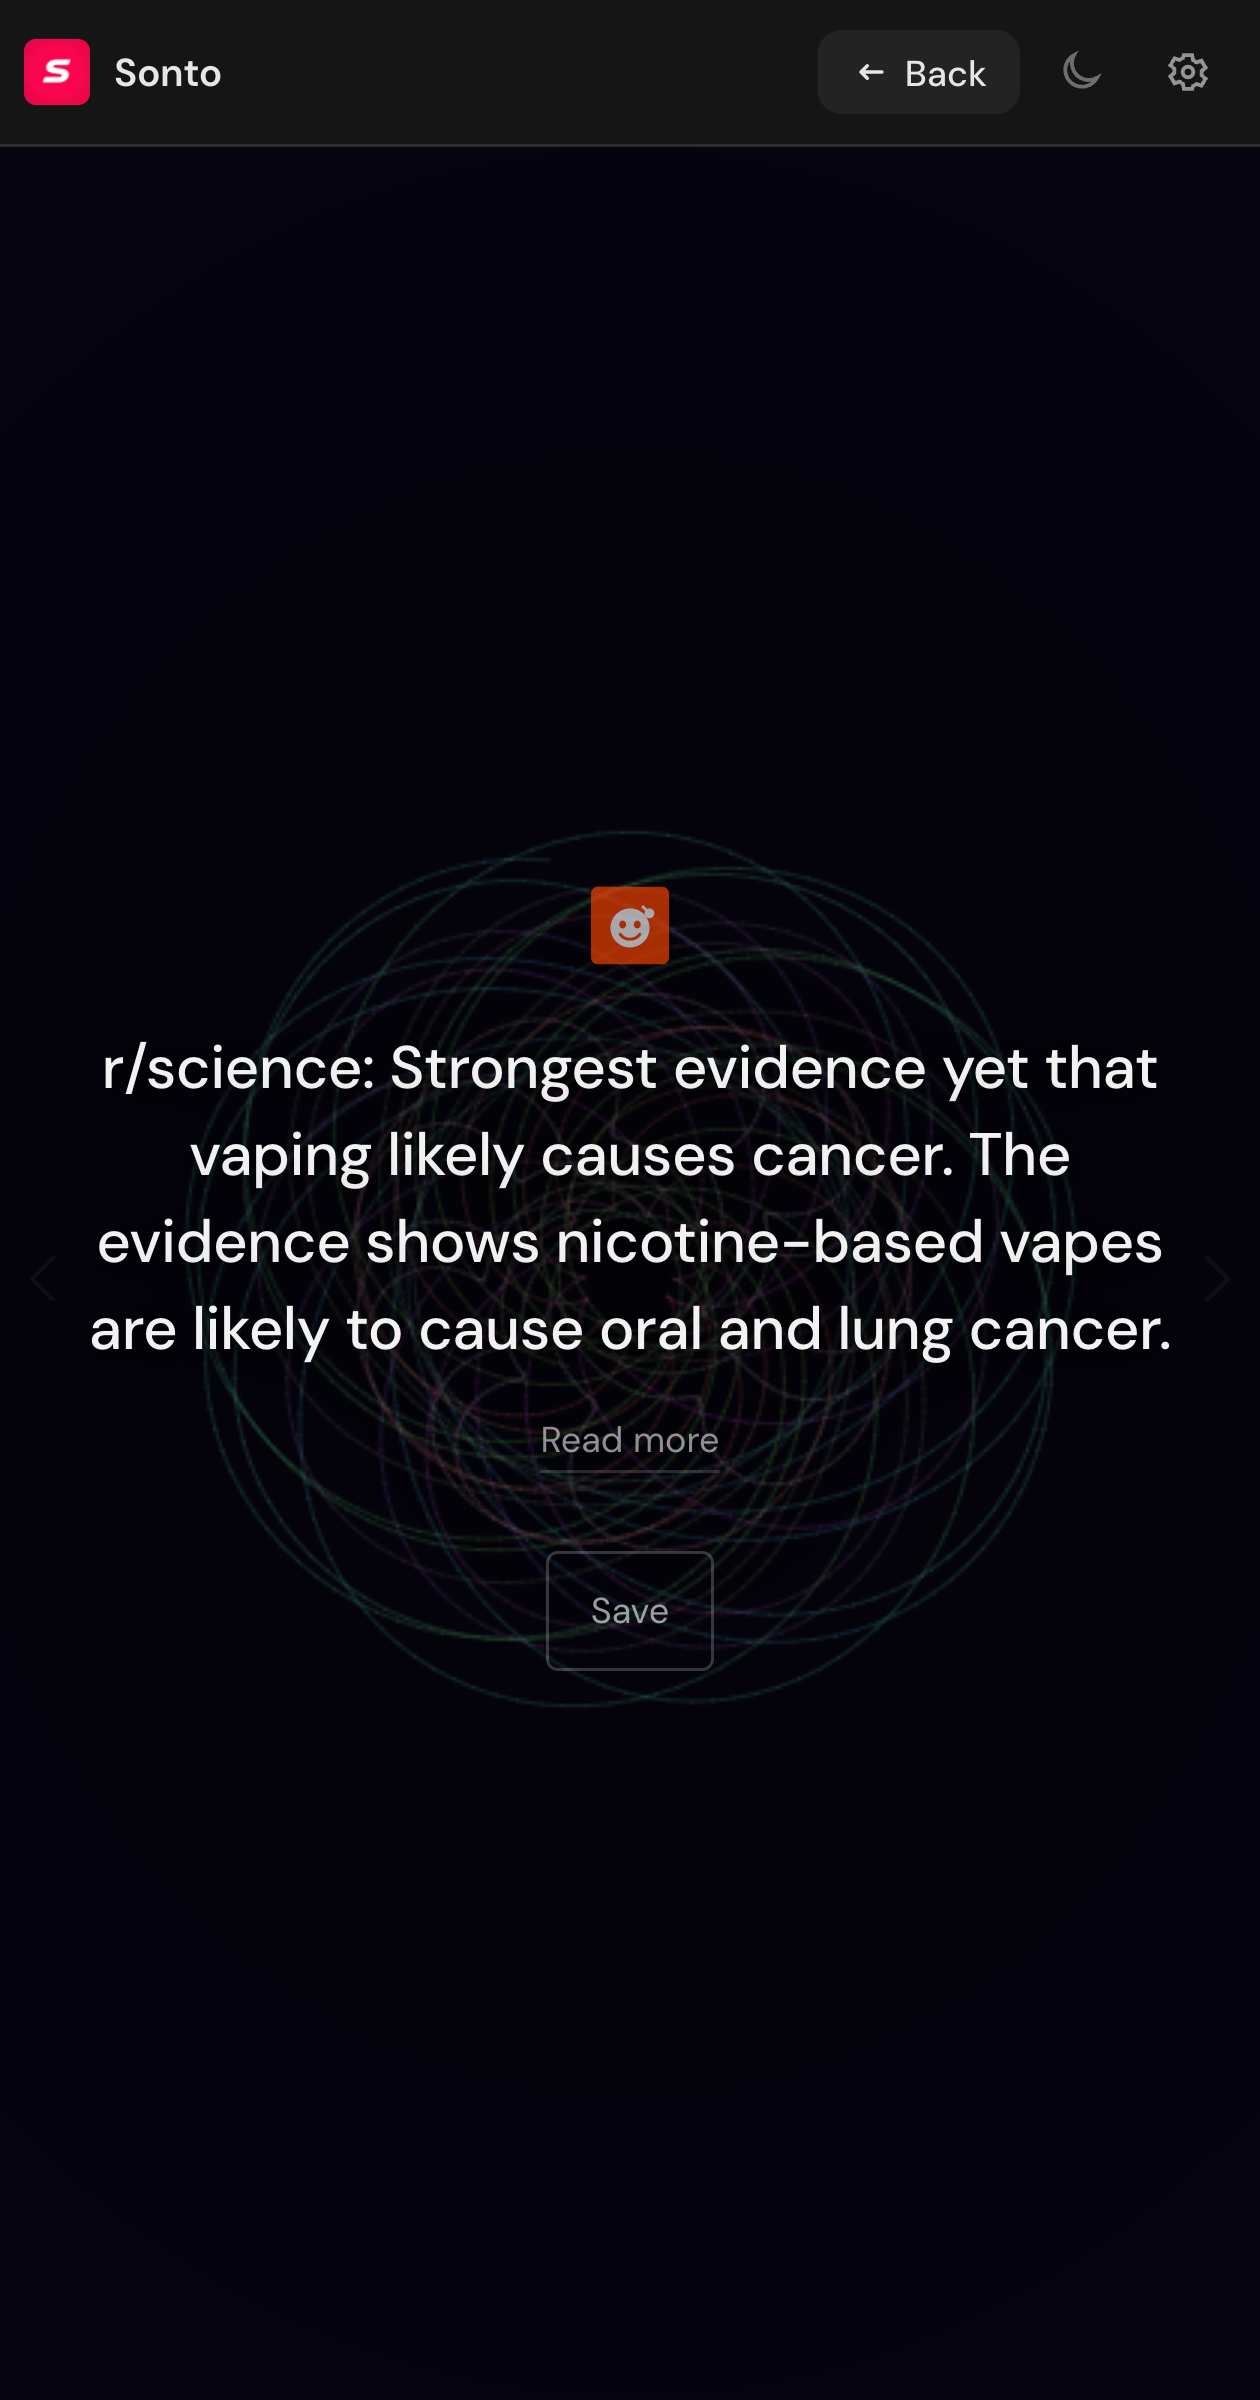
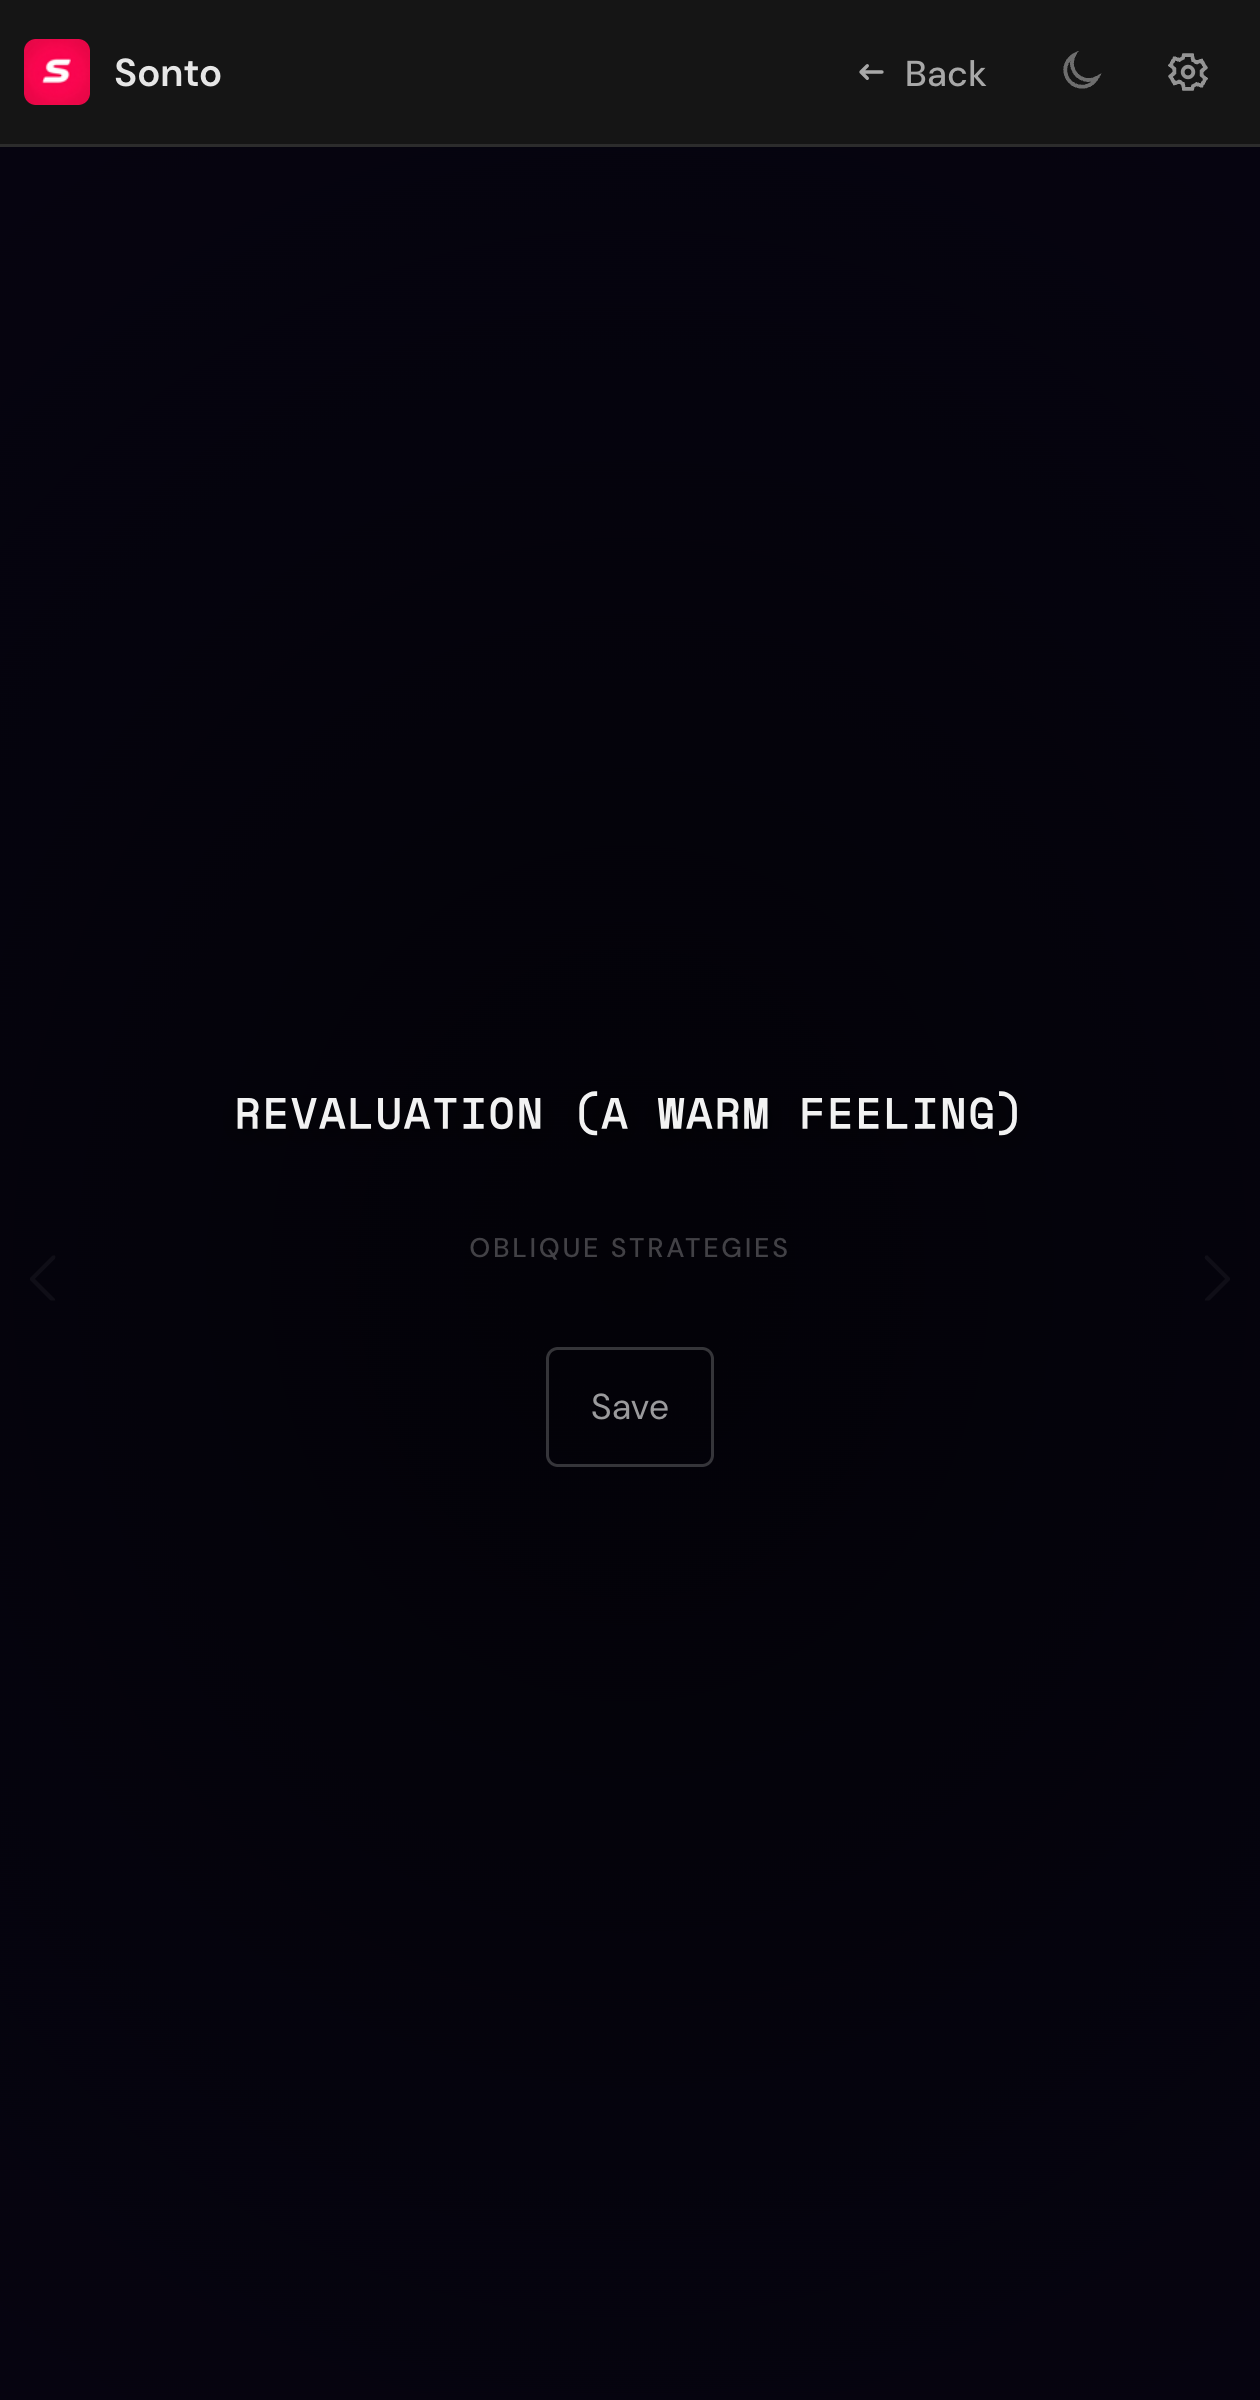
refactor: unified storage for clips, prompts, and items
* New unified IndexedDB schema (sonto_db_v2) for all item types
* Migration from legacy clips and prompts storage
* Realtime updates for prompts via PROMPT_ADDED message
* Tags, zenify, and improved pinned sections
* Updated E2E tests for new storage

Screenshots regenerated showing new UI features.

Changed region(s): [[0.0619, 0.3438, 0.9286, 0.6875], [0.2167, 0.5938, 0.2476, 0.625]]

diff --git a/README.md b/README.md
@@ -8,16 +8,16 @@ A calm Chrome sidebar that works as a clipboard manager with an optional zen fee
 
 <table>
   <tr>
-    <td><img src="docs/screenshots/e2e_clipboard_dark.png" alt="Clipboard dark theme" width="400" /></td>
+    <td><img src="docs/screenshots/e2e_clipboard_dark.png" alt="Clipboard history with pins, tags, and actions" width="400" /></td>
     <td><img src="docs/screenshots/e2e_clipboard_light.png" alt="Clipboard light theme" width="400" /></td>
   </tr>
   <tr>
-    <td><img src="docs/screenshots/e2e_zen_cosmos.png" alt="Zen cosmos mode" width="400" /></td>
-    <td><img src="docs/screenshots/e2e_zen_feed.png" alt="Zen feed mode" width="400" /></td>
+    <td><img src="docs/screenshots/e2e_zen_feed.png" alt="Zen feed with art, quotes, and news" width="400" /></td>
+    <td><img src="docs/screenshots/e2e_zen_cosmos_light.png" alt="Cosmos mode with spirograph animations" width="400" /></td>
   </tr>
   <tr>
-    <td><img src="docs/screenshots/e2e_settings_clipboard.png" alt="Clipboard settings" width="400" /></td>
-    <td><img src="docs/screenshots/e2e_settings_feed.png" alt="Feed settings" width="400" /></td>
+    <td><img src="docs/screenshots/e2e_settings_clipboard.png" alt="Settings with backup and customization" width="400" /></td>
+    <td><img src="docs/screenshots/e2e_prompt_modal.png" alt="Add prompt modal with color labels" width="400" /></td>
   </tr>
 </table>
 
@@ -41,10 +41,13 @@ No API keys needed. The extension works entirely in your browser.
 ### Clipboard Manager (Main View)
 
 - **Clipboard history**: Automatically saves copied text. Press Alt+Shift+C or right-click to capture manually
-- **Prompt management**: Save and organize your favorite AI prompts with the + button
+- **Prompt management**: Save and organize your favorite AI prompts with color labels
 - **Pin important items**: Keep frequently used snippets at the top
+- **Tags**: Organize clips and prompts with custom tags
+- **Zenify**: Add items to your zen feed rotation
 - **Search**: Quickly find items in your history with the search bar
 - **Domain filtering**: See related clips when visiting a page
+- **Quick insert**: Insert snippets directly into web page inputs
 
 ### Zen Feed (Secondary View)
 
